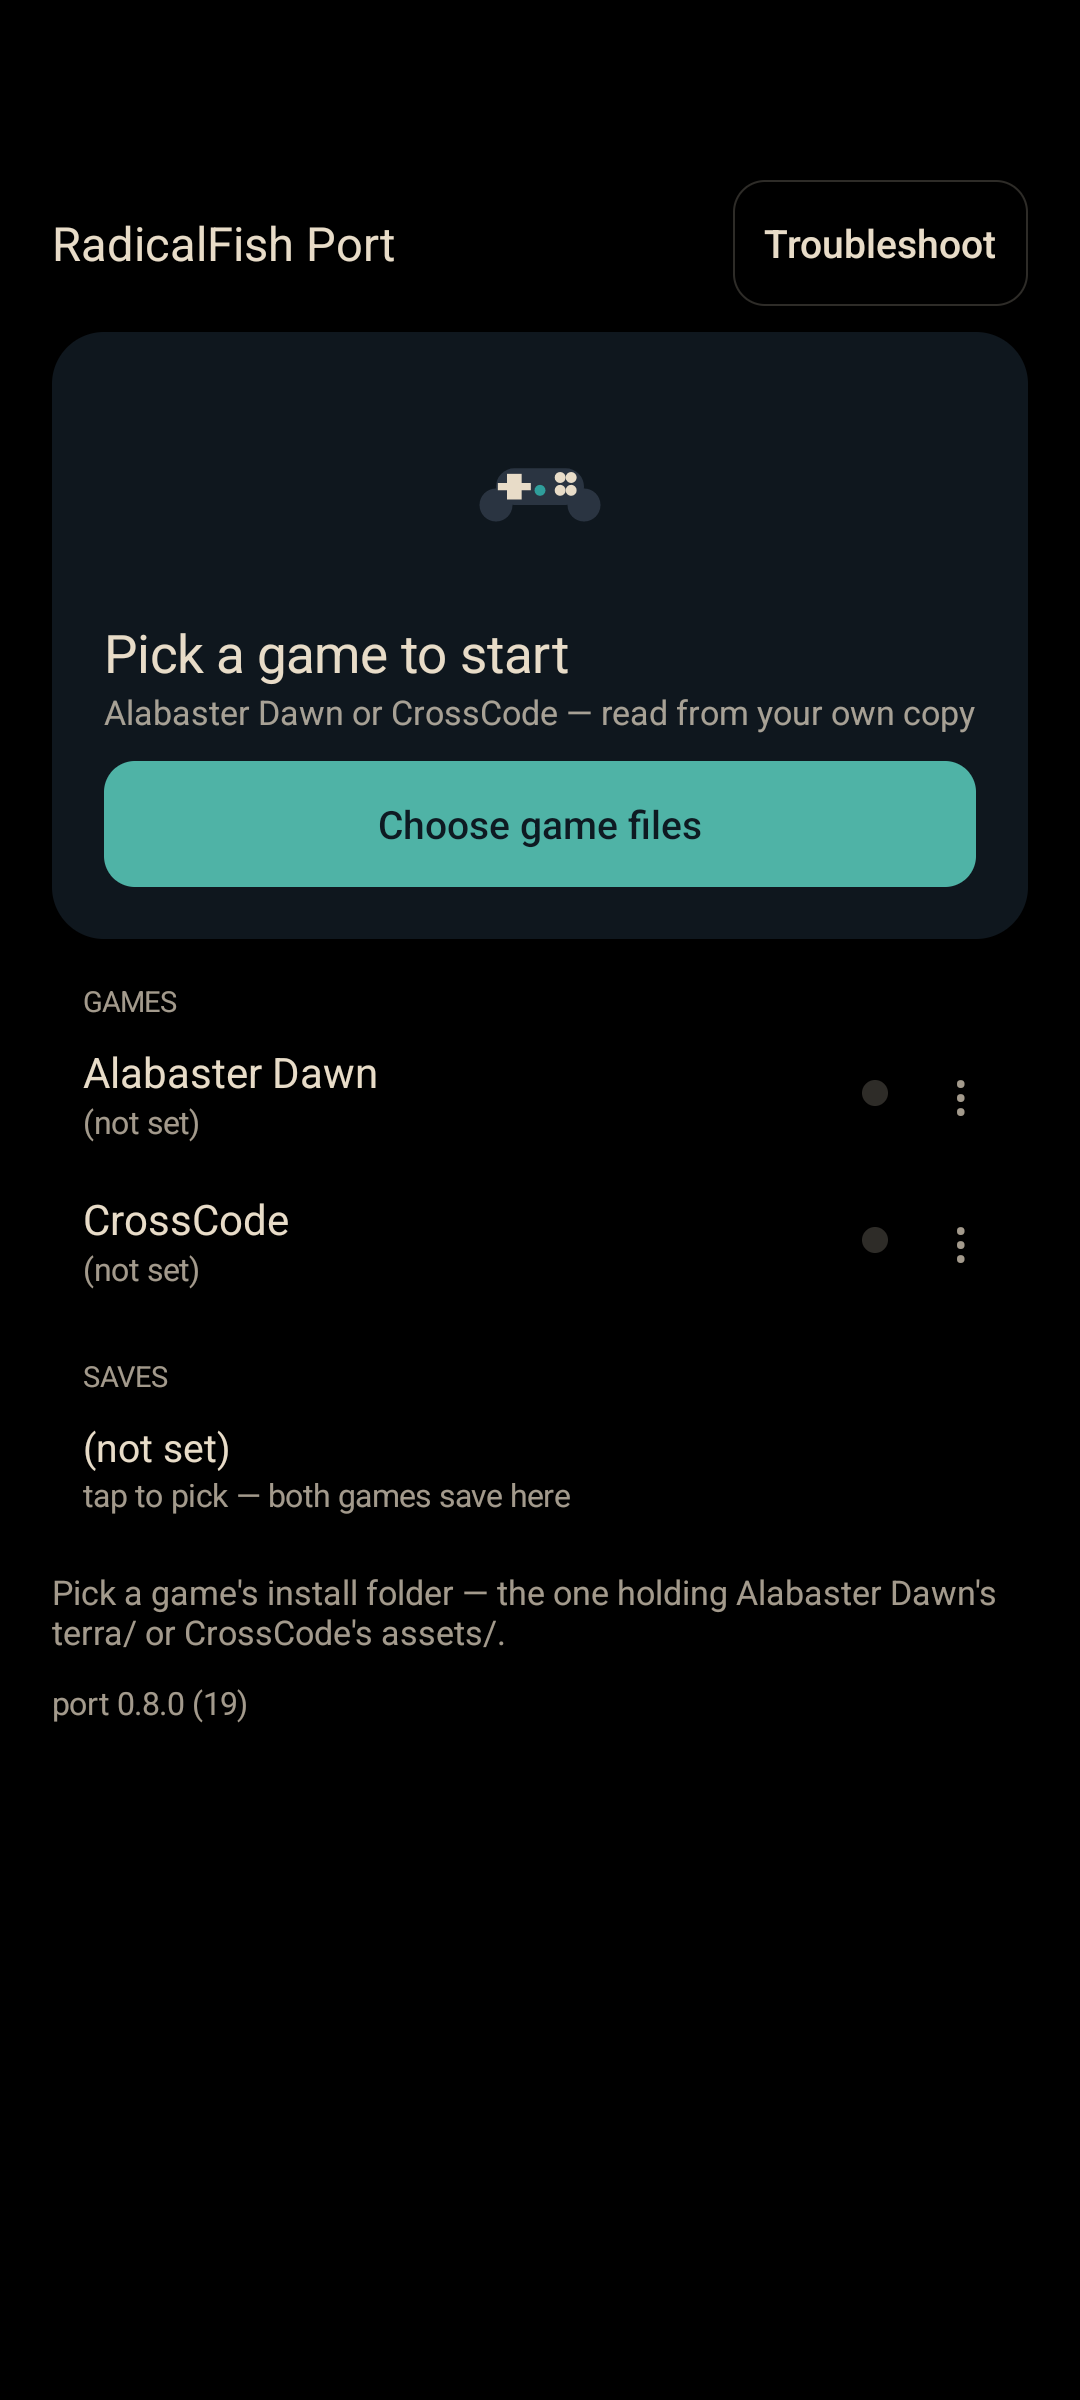
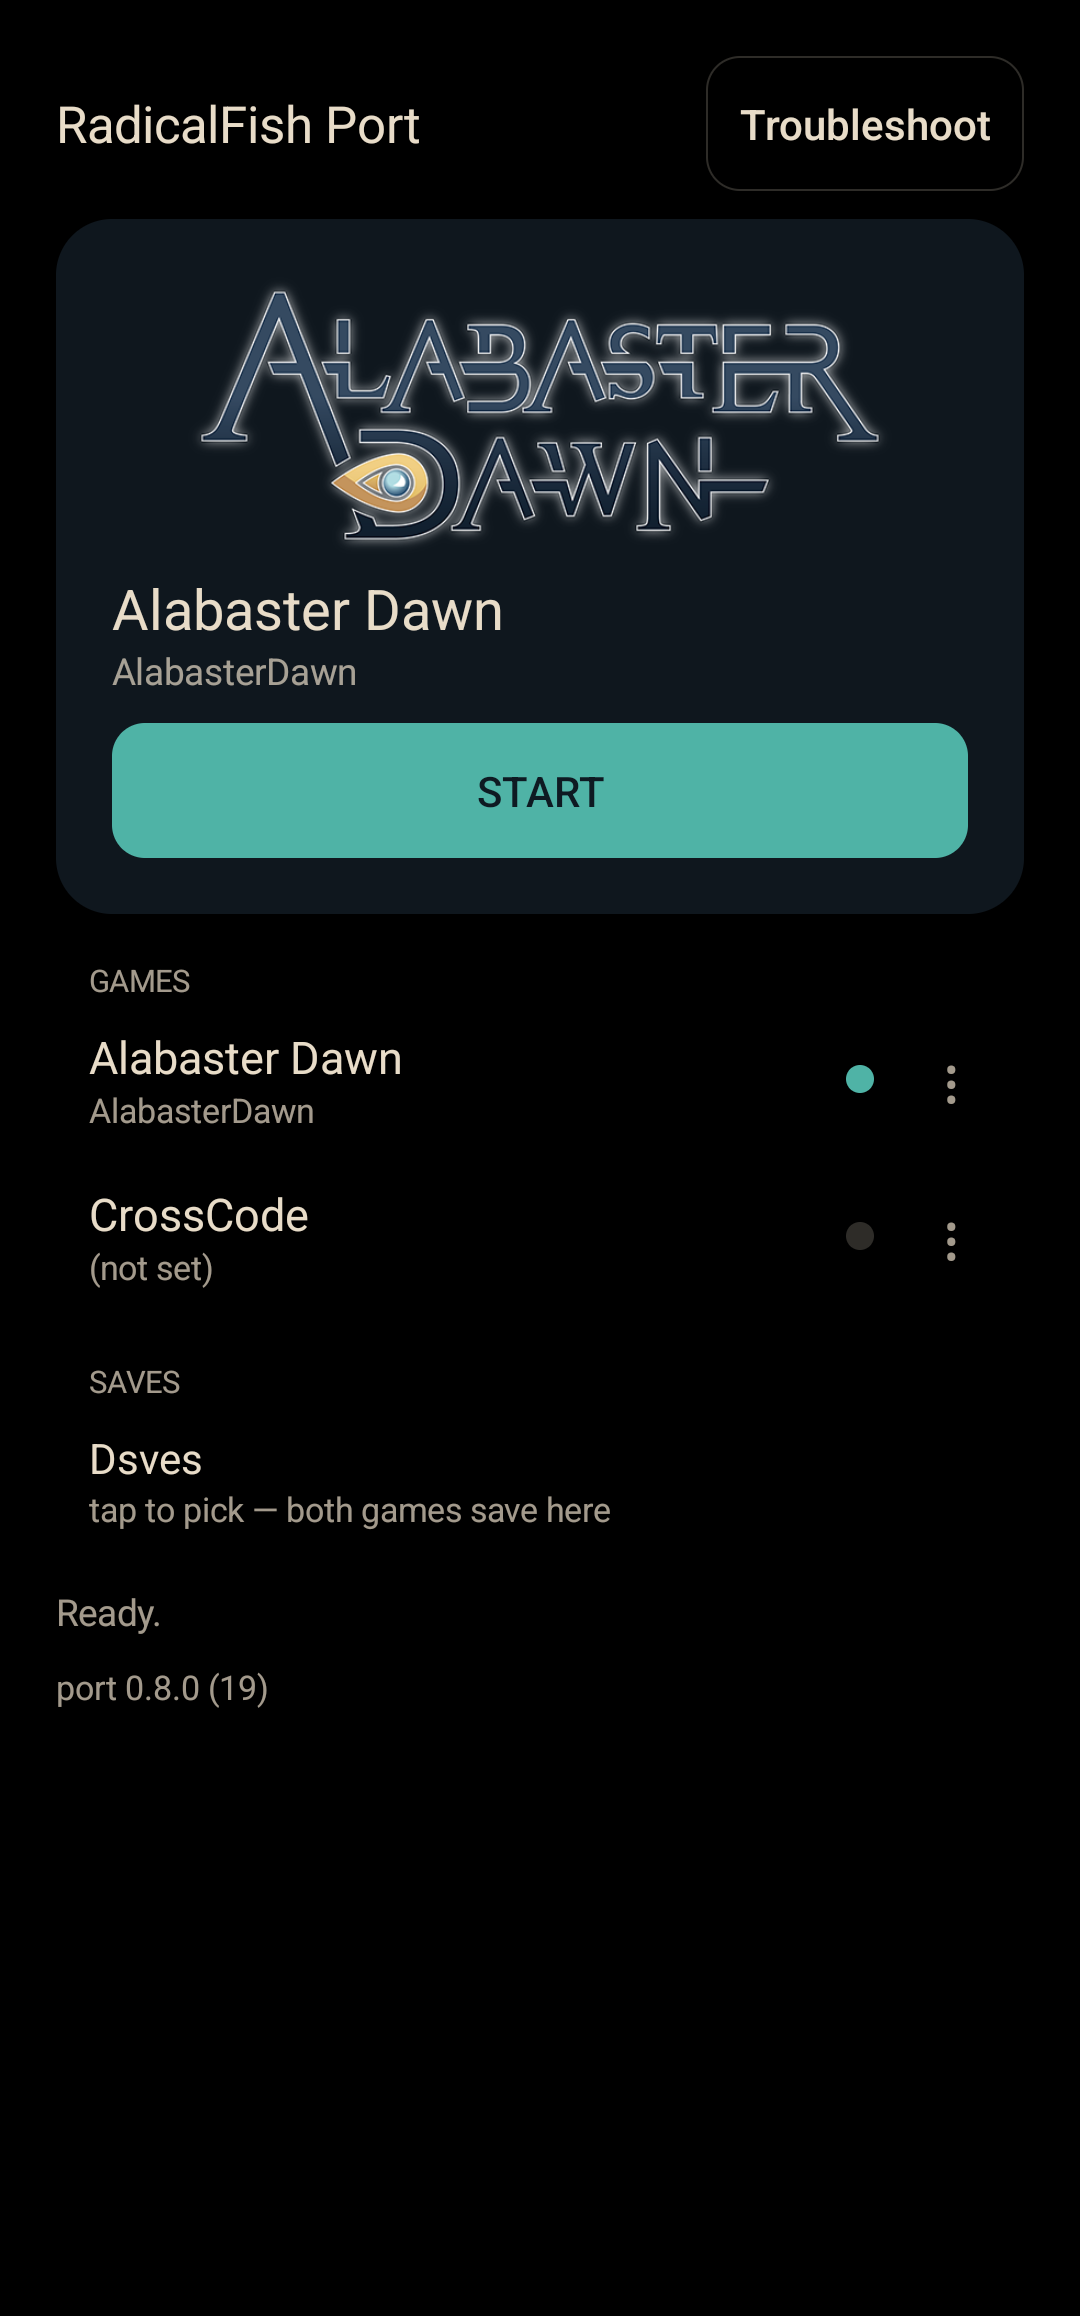
Hero art: use the games' composed art, not their atlases
Checked on the phone: `game-logo-small.png` is a sprite sheet whose opaque filler
drew as black slabs across the hero card. Both games ship such atlases, so the
hero now points at composed art that is only the logo:

- Alabaster Dawn: terra/media/gui/title/title-name-01.png (647x256, transparent
  wordmark) instead of terra/media/gui/game-logo-small.png.
- CrossCode: assets/media/gui/title/title-bg.png (480x320, the title-screen
  character art) instead of assets/media/gui/title-logo-new.png, which is opaque
  black, and instead of title-logo.png, which is the split-logo sprite sheet.

Hero box 84 -> 100 dp for presence. Verified on the SM-S908U1: the wordmark draws
from the user's own install, no fatal exceptions, rows/dots/menus render. docs/setup.png
is that screen.

diff --git a/android/app/src/main/java/io/github/moronigranja/alabasterdawn/GameProfile.kt b/android/app/src/main/java/io/github/moronigranja/alabasterdawn/GameProfile.kt
@@ -61,9 +61,13 @@ enum class GameProfile(
     /** The render canvas the port's overlays measure. Both engines own the element's own layout. */
     val canvasSelector: String,
     /**
-     * The game's own logo inside its install, relative to the picked root, for the entry screen's
-     * hero. It is **drawn from the user's copy at runtime and never shipped**: the APK carries no game
-     * art (see `NOTICE.md`), and a build that moved the file simply gets no image.
+     * The game's own art inside its install, relative to the picked root, for the entry screen's
+     * hero: Alabaster Dawn's wordmark, CrossCode's title-screen character art. It is **drawn from the
+     * user's copy at runtime and never shipped** — the APK carries no game art (see `NOTICE.md`), and
+     * a build that moved the file simply gets no image.
+     *
+     * Both are the games' *composed* art, not their atlases: `game-logo-small.png` and CrossCode's
+     * `title-logo.png` are sprite sheets, whose opaque filler draws as black slabs on a panel.
      */
     val logoPath: String,
 ) {
@@ -80,7 +84,7 @@ enum class GameProfile(
         rewrites = true,
         viewAlign = true,
         canvasSelector = ".xgCanvas",
-        logoPath = "terra/media/gui/game-logo-small.png",
+        logoPath = "terra/media/gui/title/title-name-01.png",
     ),
     CROSSCODE(
         id = "cc",
@@ -98,7 +102,7 @@ enum class GameProfile(
         rewrites = false,
         viewAlign = false,
         canvasSelector = "#canvas",
-        logoPath = "assets/media/gui/title-logo-new.png",
+        logoPath = "assets/media/gui/title/title-bg.png",
     );
 
     /** The entry page's index key (also its path under the picked root). */

diff --git a/android/app/src/main/java/io/github/moronigranja/alabasterdawn/PortActivity.kt b/android/app/src/main/java/io/github/moronigranja/alabasterdawn/PortActivity.kt
@@ -1517,7 +1517,7 @@ class PortActivity : Activity() {
         private const val MENU_CHANGE_FOLDER = 1
         private const val MENU_FORGET_FOLDER = 2
         /* How tall the hero card's logo box is. */
-        private const val HERO_LOGO_DP = 84
+        private const val HERO_LOGO_DP = 100
         private const val KEY_SAVES = "saves_tree_uri"
 
         /* Whether the on-screen pad draws its controls. */
